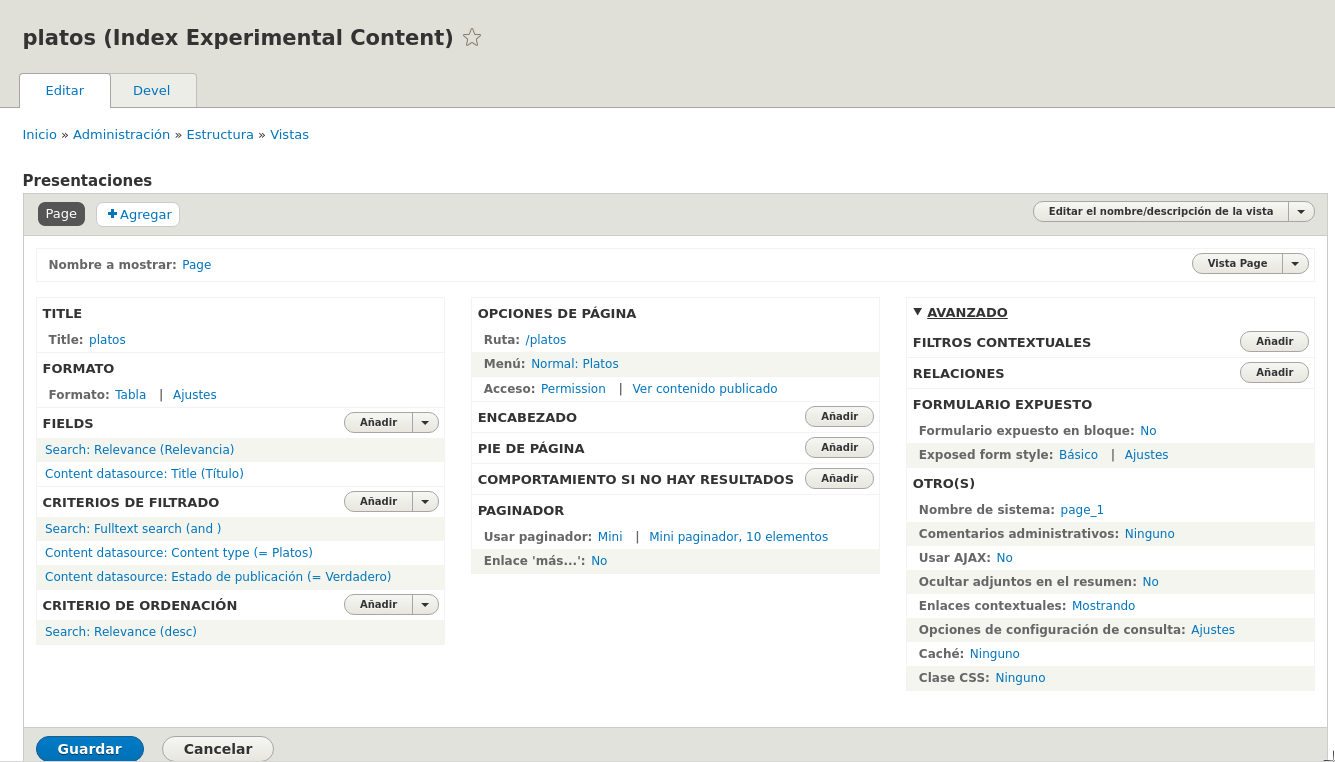
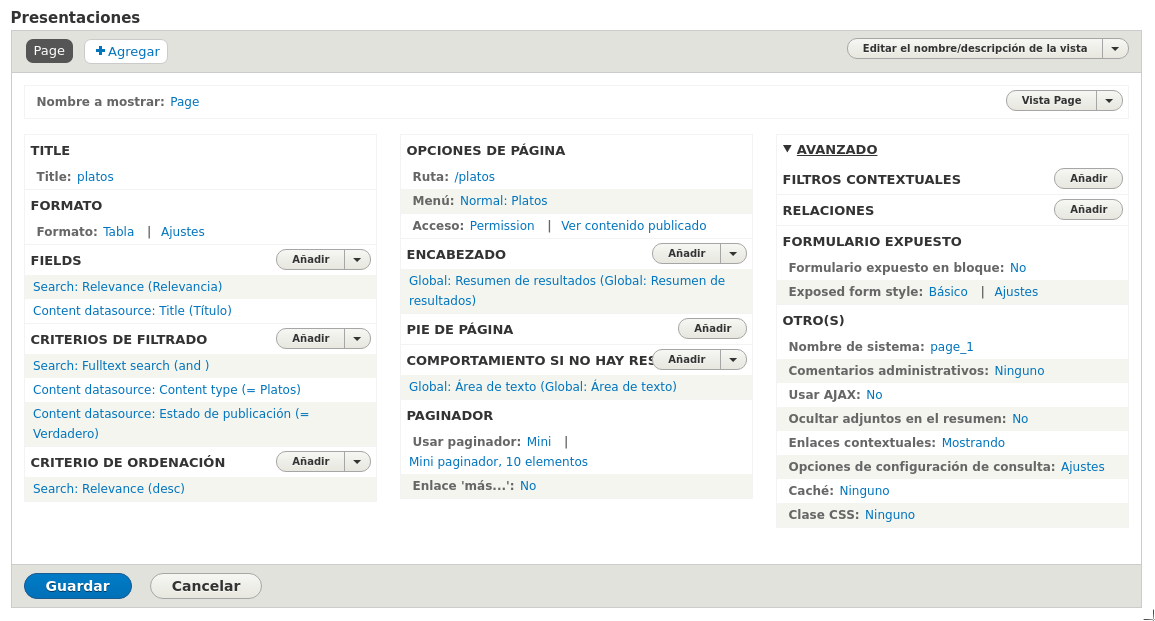
Finish view

Changed region(s): [[0.0, 0.2142, 1.0, 1.0], [0.0, 0.0, 1.0, 0.1836], [0.9351, 0.4283, 0.9974, 0.5201]]

diff --git a/index.html b/index.html
@@ -525,7 +525,7 @@
 				<section class="search-api-solr-config.step-13">
 					<p class="xxsmall">Paso 13</p>
 					<h4>Indexamos</h4>
-					<p class="xsmall">Todo esto <a href="https://www.drupal.org/u/borisson_">@borisson_</a> lo hace en 47 segundos ;)<br>Si activas el módulo <em>search_api_solr_defaults</em> parte de la configuración la tienes hecha. Incluyendo una vista por defecto.</p>
+					<p class="xsmall">Search API Solr incluye el módulo <em>search_api_solr_defaults</em>, donde parte de la configuración la tienes hecha, incluyendo una vista por defecto.</p>
 					<img src="assets/install/indexing-admin.png" width="100%">
 				</section>
 
@@ -539,8 +539,15 @@
 				<section class="search-api-solr-config.step-15">
 					<p class="xxsmall">Paso 15</p>
 					<h4>Configuramos vista</h4>
-					<p class="xxsmall">No cacheamos. Añadimos filtro expuesto de "Full text search" y seleccionamos los campos sobre los que queremos buscar. Ordenamos por relevancia DESC (podemos añadir después fecha DESC por ejemplo), configuramos permisos de acceso, filtramos por tipo de contenido y por estado del contenido (publicado o no).</p>
+					<p class="xxsmall">No cacheamos. Añadimos filtro expuesto de "Full text search" y lo configuramos para que no admita menos de dos caracteres y seleccionamos los campos sobre los que queremos buscar. Ordenamos por relevancia DESC (podemos añadir después fecha DESC por ejemplo), configuramos permisos de acceso, filtramos por tipo de contenido y por estado del contenido (publicado o no). Añadimos resumen de resultados en la cabecera y texto cuando no hay resultados.</p>
 					<img src="assets/install/views-admin-configuration.png" width="100%">
+				</section>
+
+				<section class="search-api-solr-config.step-16">
+					<p class="xxsmall">Paso 16</p>
+					<h4>Comprobamos</h4>
+					<p class="small">Yeahhh!!!!</p>
+					<img src="assets/install/view-platos-results-simple.png" width="100%">
 				</section>
 
 				<!-- @section SEARCH API SOLR CONFIG-->
